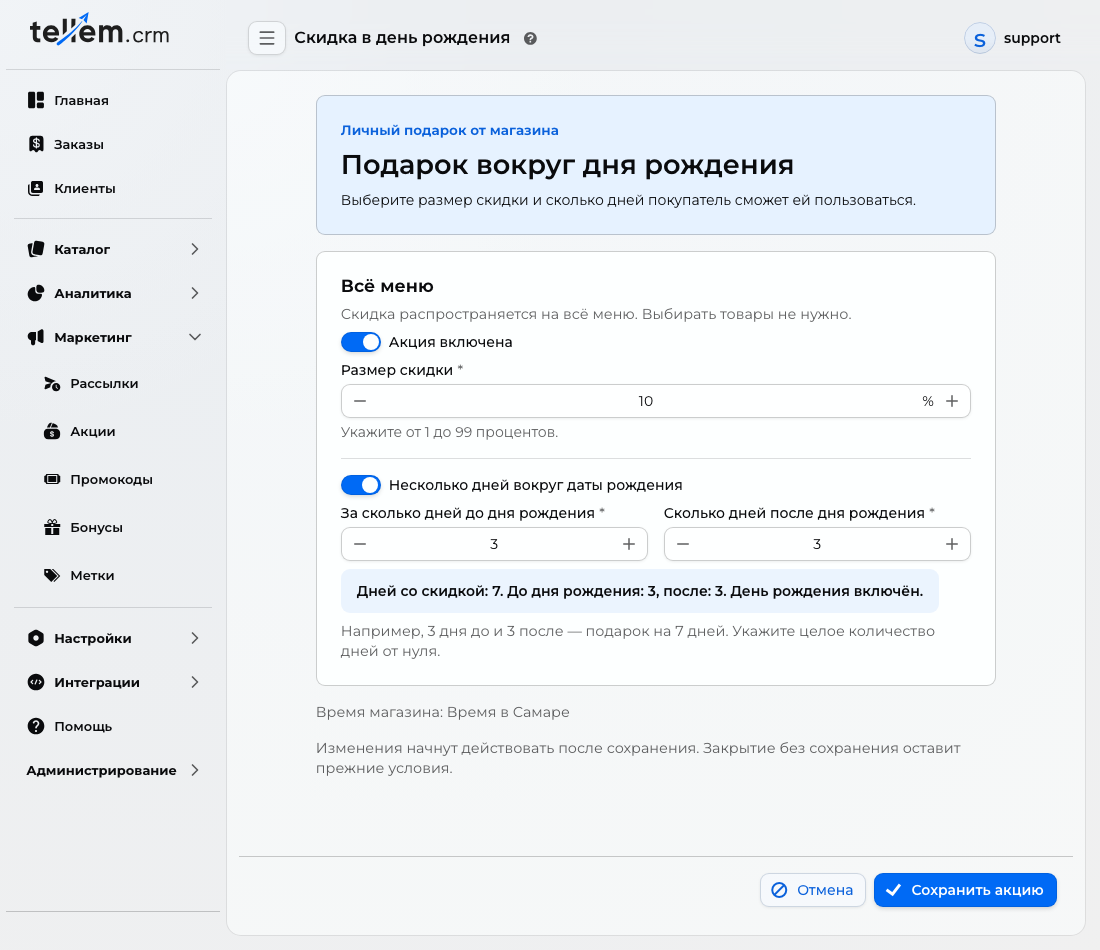
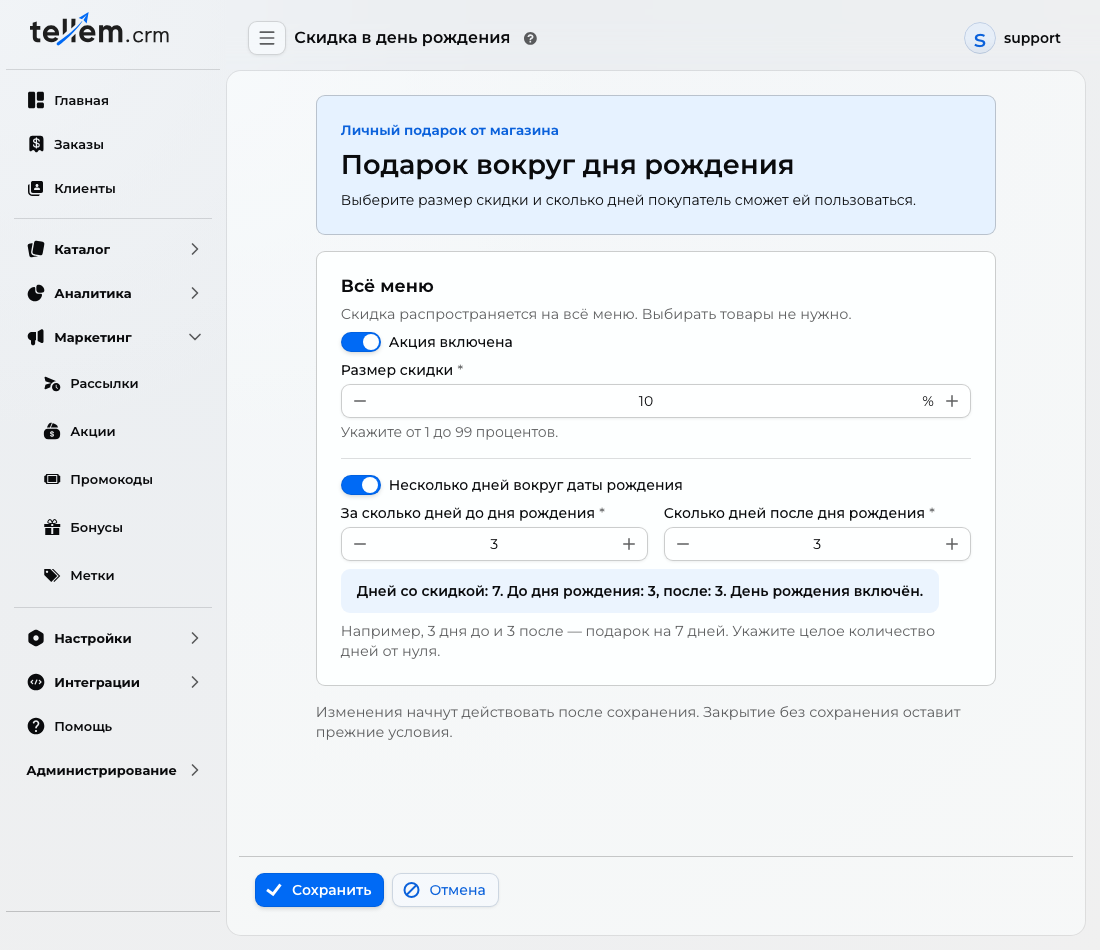
Обновить простые редакторы подарка и скриншоты [skip ci]

Changed region(s): [[0.2782, 0.7326, 0.8655, 0.8242], [0.68, 0.9158, 0.9582, 0.9768], [0.2164, 0.9158, 0.4327, 0.9768]]

diff --git a/docs/modules/crm/promo-codes.md b/docs/modules/crm/promo-codes.md
@@ -155,13 +155,13 @@
 1. Включите **«Акция включена»** — появятся параметры скидки.
 2. Укажите процент от **1 до 99**.
 3. Для нескольких дней включите **«Несколько дней вокруг даты рождения»** и задайте целые неотрицательные числа дней до и после. Верхнего лимита периода нет. Без этого переключателя акция действует только в сам день рождения.
-4. Проверьте итоговую длительность и нажмите **«Сохранить акцию»**. **«Отмена»** закрывает форму без изменений.
+4. Проверьте итоговую длительность и нажмите **«Сохранить»**. **«Отмена»** закрывает форму без изменений.
 
 Например, скидка **10%**, **3 дня до** и **3 дня после** — это **7 дней**, включая сам день рождения. Для дня рождения 15 октября скидка действует с 12 по 18 октября включительно. Выключенные переключатели скрывают ненужные поля.
 
 ![Отдельный редактор акции ко дню рождения: всё меню, скидка 10%, три дня до и три дня после.](../../media/birthday-rewards/crm-discount.png)
 
-Часовой пояс фиксируется при создании акции и показан в пояснении. Покупатель должен сохранить дату рождения **до начала своего периода**. Для 29 февраля в обычный год используется 28 февраля. Одновременно можно включить один подарок: эту скидку или [бонусы ко дню рождения](bonus-system.md#birthday). Конфликтующая настройка не сохраняется.
+Покупатель должен сохранить дату рождения **до начала своего периода**. Для 29 февраля в обычный год используется 28 февраля. Одновременно можно включить один подарок: эту скидку или [бонусы ко дню рождения](bonus-system.md#birthday). Конфликтующая настройка не сохраняется.
 
 ### Что увидит покупатель
 

diff --git a/docs/modules/crm/bonus-system.md b/docs/modules/crm/bonus-system.md
@@ -39,7 +39,7 @@
 
 ## Бонусы в день рождения { #birthday }
 
-Подарок настраивается в **Маркетинг → Бонусы → Настроить**, внутри нужного набора правил Tellem. Включите «Начислять бонусы в день рождения», укажите положительное целое количество и часовой пояс магазина, затем нажмите **«Сохранить правила»**. Набор должен быть действующим, а бонусная система — включённой. Отмена окна не применяет изменения.
+Подарок настраивается в **Маркетинг → Бонусы → Настроить**, внутри нужного набора правил Tellem. Включите «Начислять бонусы в день рождения», укажите положительное целое количество, затем нажмите **«Сохранить правила»**. Набор должен быть действующим, а бонусная система — включённой. Отмена окна не применяет изменения.
 
 ![Бонусы в день рождения в редакторе правил Tellem.](../../media/birthday-rewards/crm-bonus-rule.png)
 

diff --git a/docs/modules/app/account.md b/docs/modules/app/account.md
@@ -44,7 +44,7 @@
 
 Если дата была указана заранее, карточка в профиле показывает доступный подарок и его полный период. Например, скидка **10%** действует **3 дня до + день рождения + 3 дня после** — всего 7 дней:
 
-![В профиле рядом с датой рождения покупатель видит скидку 10%, фактические даты её действия и время магазина.](../../media/birthday-rewards/customer-profile.png){ width="440" loading=lazy }
+![В профиле рядом с датой рождения покупатель видит скидку 10% и фактические даты её действия.](../../media/birthday-rewards/customer-profile.png){ width="440" loading=lazy }
 
 Настройка примера в CRM — [«Акция ко дню рождения»](../crm/promo-codes.md#birthday).
 
